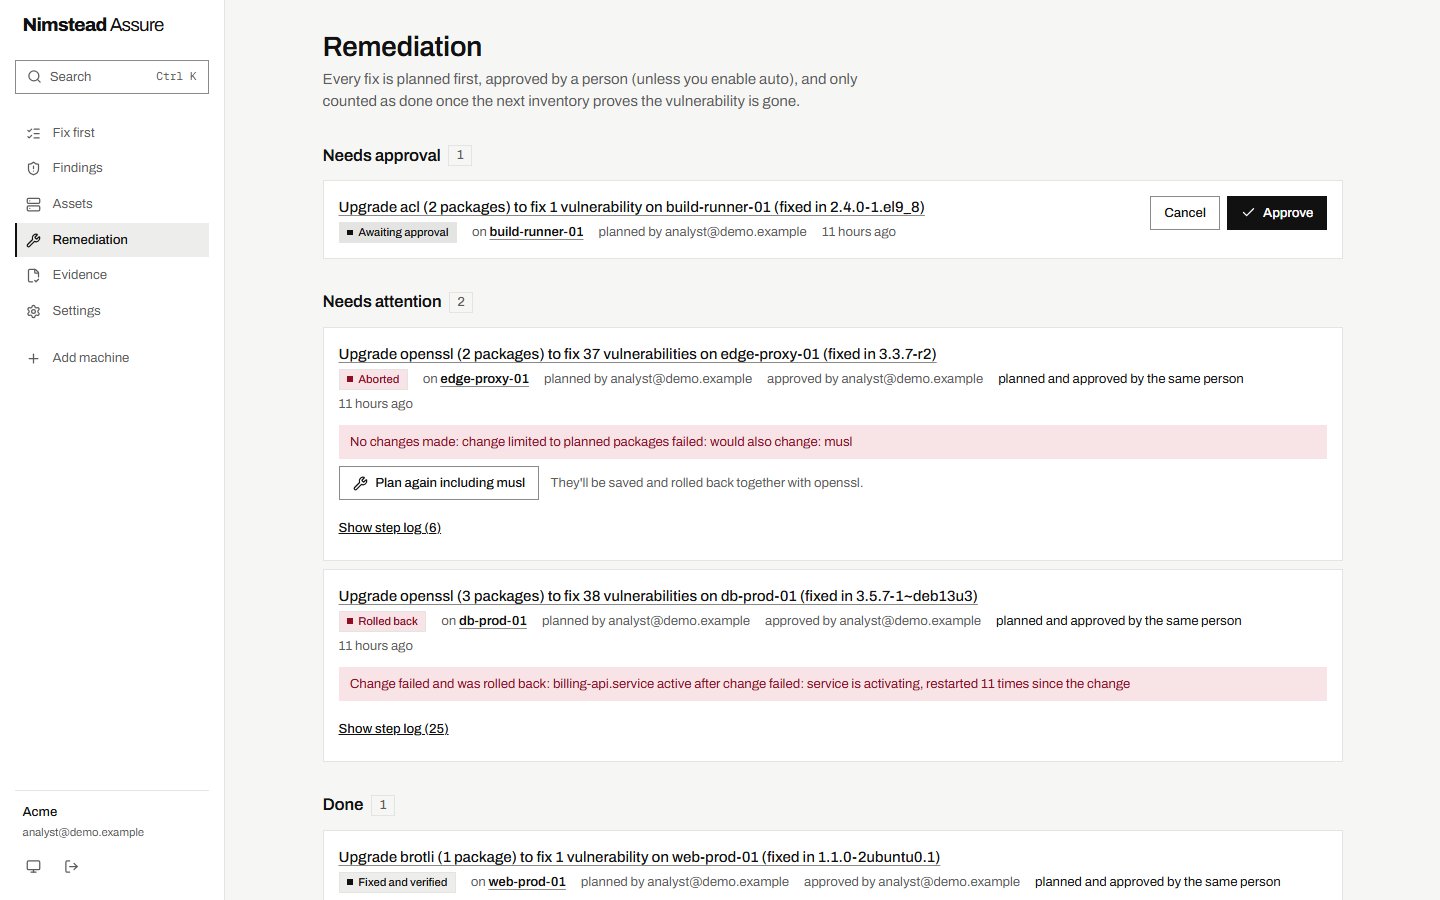
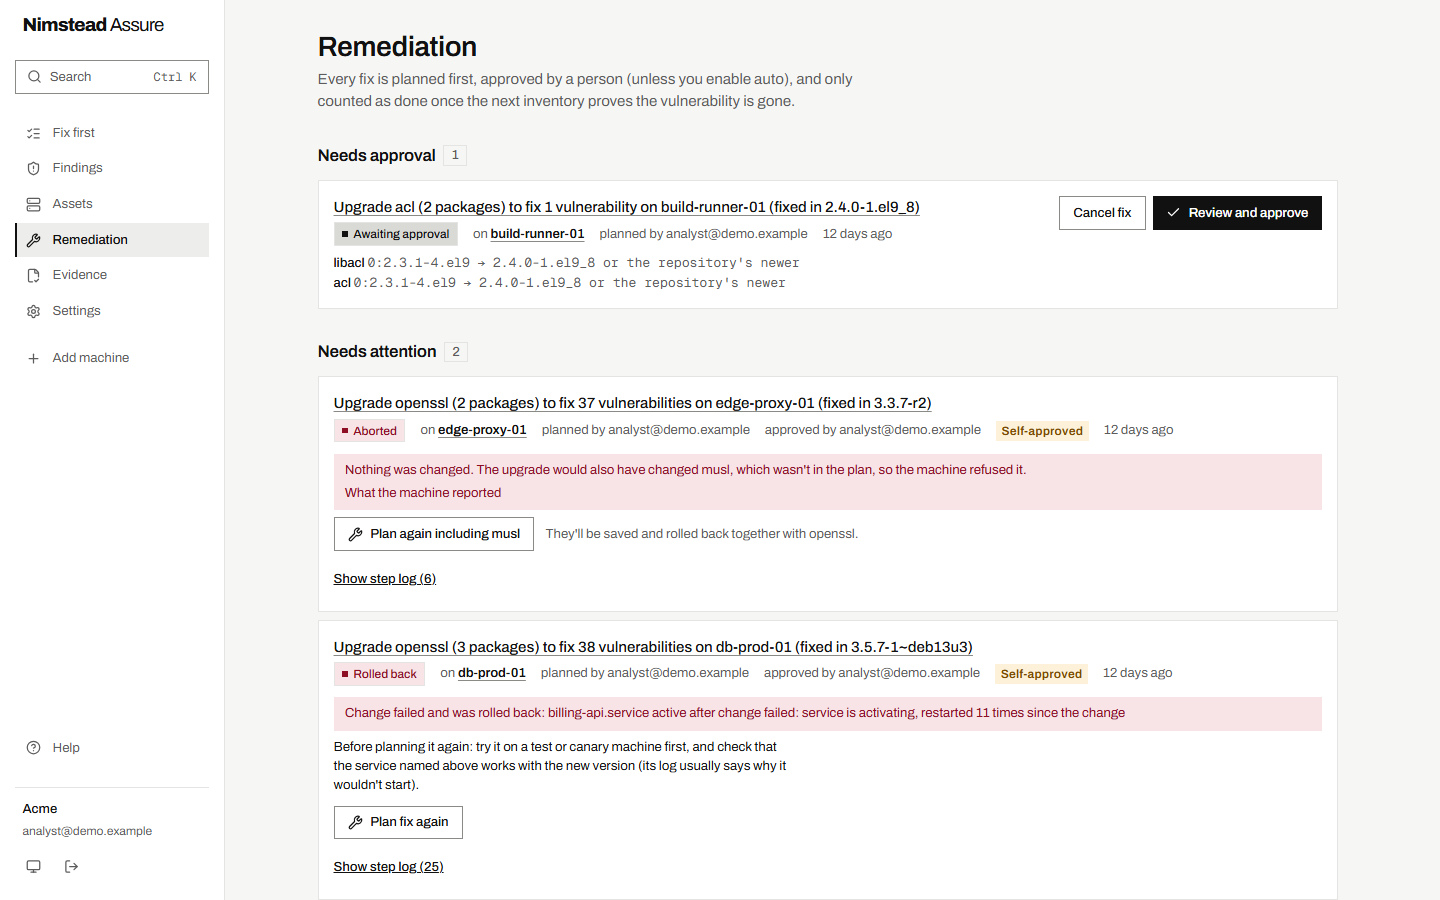
Docs for 0.7.5: README screenshots retaken on the 0.7.5 UI, fleet view, STATUS
- Six README screenshots retaken from the real five-host demo on 0.7.5
- New findings-fleet-1440.png from the 206-machine demo (bulk selection)
- README: a "Works at fleet scale" point, alt text matching the new screens
- STATUS: release 0.7.5 and how the screenshots are made
- readme-shots.mjs waits for "Recommended fixes" (renamed heading)

diff --git a/STATUS.md b/STATUS.md
@@ -85,6 +85,7 @@ All four evidence packs verified, with 6/6 controls met. On Alpine, the dry run 
 - **Windows 10 22H2: detection and a safe refusal on a real install (2026-11-02; the last free cumulative's fix through the task proven since, see above, `last_run_windows10_esu_refused.json`, Enterprise Evaluation, build 19045.2006):** install, enrolment and reporting work, and the job stops with no changes and says no Extended Security Updates licence is active. Windows Update offers only the last free update there (2025-10, KB5066791); Nimstead syncs recent MSRC months and targets the ESU updates, so the two disagree for that reason and the comparison isn't an agreement. Installing an ESU fix needs an ESU-licensed machine, which isn't available here. Server 2016 and earlier Windows 10 builds remain untried.
 - **Still missing:** breadth (105 curated apps, where commercial scanners cover thousands; batch 8 stopped the batches by the plan's own rule, no mappable winget candidate with 20 or more CVEs being left; the noise review with the batches installed together covers 50 of them, app findings only, checked by machine against raw NVD with none unexplained, `last_run_winnoise.json`; on 2026-11-04 split over two VMs, 74 apps installed, 353 findings at old versions with none unexplained, `last_run_winnoise_part1of2.json` and `last_run_winnoise_part2of2.json`; after updating, 32 and 23 findings, none unexplained), agentless scanning across real networks (`scan-remote` is proven only on a VM scanning itself, `last_run_winremote.json`: same packages and settings as the agent; it can't fix, and needs PowerShell remoting on), full CIS/STIG benchmarks. The .NET Framework fix is proven on Windows 11, Server 2019 and Server 2022 (`last_run_winnetfx*.json`); Windows 10 22H2 detects but can't install it without an ESU licence (`last_run_winnetfx_windows10_22h2.json`), and Server 2016 and 2025 are untried.
 - **After 0.7.0 (2026-11-06):** how much of a host is checked, on a real Windows 11 VM with 63 apps: 57 of 77 installs (`last_run_wincoverage.json`; a .NET runtime is now counted through the fact the server checks); the SharePoint and Exchange collectors on real installs from Microsoft's trial media, each reporting the version the host itself records (`last_run_winsharepoint.json`, `last_run_winexchange.json`; SharePoint as binaries only, Exchange as its management tools, not a mailbox server); the benchmark settings read in full on a German Windows install (`last_run_winbaseline_judged_as.json`); the agent installed by a Group Policy scheduled task at boot, with nobody signed in (`last_run_wingpo.json`; how-to in docs/install.md); a two-node failover cluster patched node by node with the role online from outside throughout (`last_run_wincluster.json`, agent 0.6.2: two health-check bugs it found are fixed, see CHANGELOG); the benchmark references on a real Server 2025 (`last_run_winbaseline.json`): 20 sampled rules read the same by the agent and in the guest. `winvm.py create --reuse` proven on a real VM: a Server 2025 base installed once, the run's clone reported 2 minutes after start (DECISIONS 107).
+- **Release 0.7.5:** released 2026-11-09 on the preview channel (agent 0.6.6), the owner's go-ahead and gate approval; PR #36 squash-merged as 30112ce and tagged v0.7.5; manifest signature and the published agent's hash (9d3e52e6…) verified against the tag. It carries a UI review at fleet scale: eight rounds of Impeccable critique (26 to 30/40) and six of technical audit (15 to 16/20) on a 206-machine demo, the browser detector from about 500 findings to 0, axe clean at 1440 and 375 in both themes. Bulk plan and accept on Findings, saved views, paging, grouping and sorting; Assets as a filterable list with a drawer; approval with packages and machine context; gzip and immutable asset caching; the agent's rollback check no longer prints a mismatch on success. No migration. Promote to beta after 2026-11-23 if no agent regressions.
 - **Release 0.7.4:** released 2026-11-08 on the preview channel (agent 0.6.5), the owner's go-ahead and gate approval; PR #34 squash-merged as 8dc3bd2 and tagged v0.7.4; manifest signature and the published agent's hash (fdebe9e7…) verified against the tag. It carries the fixes from a full code audit (ledger and remediation locking, findings kept open on failed sources, the batch plan endpoint, faster ledger, pack and engine; DECISIONS 121, 122), one migration (a1c3e5f7b902), and the docs catch-up for 0.7.3.
 - **Release 0.7.3:** released 2026-11-08 on the preview channel (agent 0.6.4), the owner's go-ahead and gate approval; PR #33 squash-merged as 740bb6e and tagged v0.7.3; manifest signature and the published agent's hash (b9975327…) verified against the tag. It carries the .NET fix on Windows Server (DECISIONS 117, 118), five more years of MSRC for Microsoft apps (DECISIONS 114), the VirtualBox 7.x publisher (DECISIONS 113), the app rules labelled by evidence (W13) and the real-install proofs of W2, W4, W5 and W6.
 - **Release 0.7.2:** released 2026-11-07 on the preview channel (agent 0.6.3), the owner's go-ahead and gate approval; PR #32 squash-merged as 19e5f81 and tagged v0.7.2; manifest signature and the published agent's hash (e202064a…) verified against the tag. It carries W11, W13 batch 8, the W1 coverage fix, attack paths on group membership (DECISIONS 112) and the engine shadow (phase 1 of `tasks/plan-engine-findings.md`).
@@ -106,7 +107,7 @@ All four evidence packs verified, with 6/6 controls met. On Alpine, the dry run 
 - **Real-host E2E:** `cd api && uv run python ../sandbox/sbx.py --distro Debian|Ubuntu-24.04|AlmaLinux-9|alpine-3.21.0` · openSUSE + snapper: `uv run python ../sandbox/suse.py` · Windows (Server 2025 or Windows 11 ISO): `../sandbox/winvm.py create ISO`, then `../sandbox/wine2e.py VM`
 - **Docker Compose install:** `cd api && uv run python ../sandbox/compose.py`
 - **Signed platform + agent updates (real Compose host):** `cd api && uv run python ../sandbox/platform_update.py` · agent schedule on real systemd: `uv run python ../sandbox/agent_schedule.py`
-- **Demo from real hosts (README screenshots):** `cd api && uv run python ../sandbox/demo.py`, then serve `api/demo/nimstead-demo.db` as its docstring shows
+- **Demo from real hosts (README screenshots):** `cd api && uv run python ../sandbox/demo.py`, then serve `api/demo/nimstead-demo.db` as its docstring shows; then `cd web && node scripts/readme-shots.mjs <url>`. An older demo database needs the new tables and columns before it serves (0.7.5's shots used a copy brought up to the current schema). `docs/images/findings-fleet-1440.png` comes from the fleet demo: the same database grown to 206 machines by cloning the real inventories (206 assets, 44k open findings), used for the 0.7.5 UI review
 - **PostgreSQL suite:** `cd api && uv run python ../sandbox/pg.py`
 
 ## Review notes (Windows round 1: calls made without the owner, plan decision 7)

diff --git a/README.md b/README.md
@@ -23,21 +23,26 @@ Nimstead Assure scans your Linux and Windows machines and your applications' dep
 - **Says how sure it is.** Every check on a host gets a verdict and a confidence, and the scan report says what stopped any check from concluding instead of calling the host clean. It also shows how a host's weaknesses chain into a compromise, from getting in to reaching the next machine, and the single fix that breaks each chain.
 - **Covers your applications too.** Upload a CycloneDX or SPDX SBOM from CI, and PyPI, npm, Maven, NuGet, RubyGems, Go, crates.io, Packagist, Hex and Pub packages are matched the same way.
 - **Tells you what to fix first.** CISA KEV first, then EPSS likelihood, CVSS, how critical the machine is and whether it faces the internet, with a plain-English reason for every score. The home screen shows *upgrades* ("openssl → fixes 12 vulnerabilities on 3 hosts"), not a wall of CVEs.
-- **Fixes things without surprises.** You approve a fix. It goes to canary machines first, with a dry run that refuses anything outside the plan, a rollback copy taken before every change, health checks after, and automatic rollback if they fail. A fix only counts once the next inventory shows the vulnerability is gone.
+- **Works at fleet scale.** Findings page through tens of thousands of rows, sort by any column, and group by vulnerability or package. Select findings to plan the fix on every machine they're on, or accept the risk with one recorded reason. Save filter sets as views, search everything with Ctrl K, and step through findings with the keyboard. Assets has search, filters and bulk edit.
+- **Fixes things without surprises.** You approve a fix, after seeing every package it changes and the machine it runs on. It goes to canary machines first, with a dry run that refuses anything outside the plan, a rollback copy taken before every change, health checks after, and automatic rollback if they fail. A fix only counts once the next inventory shows the vulnerability is gone.
 - **Proves the work.** Every detection, fix and decision lands in a hash-chained ledger with signed off-database checkpoints. Ed25519-signed evidence packs map to Cyber Essentials, ISO 27001 A.8.8, NIST RA-5/SI-2, PCI DSS 6.3.3 and CIS 7, and verify offline against a pinned key fingerprint.
 - **Watches your edge.** Internet hosts you prove you own (DNS TXT) are checked for exposed risky services and weak TLS.
 - **Keeps itself current, safely.** Agents update themselves only from releases signed by the Nimstead release key, which your server never holds, so a compromised server can't push code to your machines. The server tells you when a release is out, and `deploy/update.sh` installs it with a database backup and automatic rollback. Machines that stop reporting are flagged.
 - **Fits your organisation.** OIDC single sign-on with verified domains, admin and read-only roles, webhook and email alerts for failed fixes and new urgent findings, keys in Vault and checkpoints in object-locked S3.
 
-Every screenshot here is from a real run ([`sandbox/demo.py`](sandbox/demo.py)): five disposable Linux machines (Ubuntu 24.04, Debian 13, AlmaLinux 9, Alpine 3.21) running the real agent, real vulnerability feeds, an application SBOM, and real fixes on those machines.
+Every screenshot here is from a real run ([`sandbox/demo.py`](sandbox/demo.py)): five disposable Linux machines (Ubuntu 24.04, Debian 13, AlmaLinux 9, Alpine 3.21) running the real agent, real vulnerability feeds, an application SBOM, and real fixes on those machines. The fleet view below is the same demo grown to 206 machines by cloning those real inventories.
 
 | A fix verified, a fix rolled back when it broke a service, and one the dry run refused | Why a finding matched, and why it's ranked there |
 |---|---|
-| ![Remediation: acl awaiting approval; openssl on Alpine refused because it would also change musl; openssl on Debian rolled back after billing-api.service kept restarting; brotli on Ubuntu fixed and verified](docs/images/remediation-1440.png) | ![Log4Shell (CVE-2021-44228) on billing-service: installed 2.14.1, fixed 2.15.0, ranked by CISA KEV, CVSS 10, internet-facing and high criticality](docs/images/findings-1440.png) |
+| ![Remediation: acl awaiting approval with each package's from and to versions; openssl on Alpine refused because it would also change musl, with Plan again including musl; openssl on Debian rolled back after billing-api.service kept restarting, with advice before planning it again; both marked self-approved](docs/images/remediation-1440.png) | ![Log4Shell (CVE-2021-44228) on billing-service: installed 2.14.1, fixed 2.15.0, with 2.25.4 named as the upgrade that clears all seven open findings; ranked by CISA KEV, CVSS 10, internet-facing and high criticality](docs/images/findings-1440.png) |
 
-| Every machine, its ring and its health checks | Controls an auditor can check | Light and dark, down to phone width |
+| Every machine, filtered and sorted by urgency | Controls an auditor can check | Light and dark, down to phone width |
 |---|---|---|
-| ![Assets: five Linux machines running agent 0.2.0 and an application, with criticality, canary and broad rings and health units](docs/images/assets-1440.png) | ![Evidence: Cyber Essentials, ISO 27001, NIST, PCI DSS and CIS control status](docs/images/evidence-1440.png) | ![Fix first in dark mode at 375px](docs/images/home-375-dark.png) |
+| ![Assets: five Linux machines and an application with search, filters, sort and open findings by priority; ring and health checks are set in each machine's drawer](docs/images/assets-1440.png) | ![Evidence: Cyber Essentials, ISO 27001, NIST, PCI DSS, SOC 2 and CIS control status, with a note that the period rests on one fix and RA-5 met with five machines not reporting now](docs/images/evidence-1440.png) | ![Fix first in dark mode at 375px](docs/images/home-375-dark.png) |
+
+| 44,000 findings on 206 machines: three selected, one upgrade to plan across all of them |
+|---|
+| ![Findings at fleet scale: 16,854 fixable results with sortable columns, a saved-view button and three brotli findings selected; the bar at the bottom offers Accept risk and Plan 1 fix on 3 machines](docs/images/findings-fleet-1440.png) |
 
 ## Get started
 
